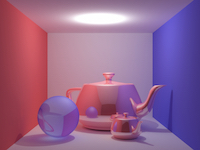
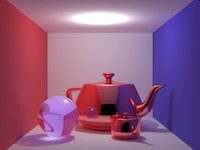
no message

diff --git a/courses/cs6620/prj12.html b/courses/cs6620/prj12.html
@@ -41,16 +41,16 @@ h3 {
 <body>
 <h1 style="margin-left:0px; margin-bottom:-75px; margin-top:25px"><p class="sansserif">CS6620 Project 12 - Path Tracing</p></h1>
 <div>
-<center><h3 style="margin-bottom:0px; margin-top:0px"><p class="sansserif">Cornell Box Scene showing caustics, 6,000 RPP (Hover on the image to see the same scene using Monte Carlo GI) (Time to RayCast: 1 hour 32 mins)</p></h3>
-  <a href="prj12.png">
-    <img src="prj12.png" width="800px" height="600px" vspace="5px"
+<center><h3 style="margin-bottom:0px; margin-top:0px"><p class="sansserif">Cornell Box Scene showing caustics, 13,500 RPP (Hover on the image to see the same scene using Monte Carlo GI) (Time to RayCast: 2 hours 22 mins)</p></h3>
+  <a href="image_pr12_physically_correct_scene.png">
+    <img src="image_pr12_physically_correct_scene.png" width="800px" height="600px" vspace="5px"
       onmouseover="this.src='Cornell Box Scene.png'"
-      onmouseout="this.src='prj12.png'">
+      onmouseout="this.src='image_pr12_physically_correct_scene.png'">
       </a>
 </center>
-<center><h3 style="margin-bottom:0px; margin-top:0px"><p class="sansserif">Cornell Box Scene showing caustics, 24,000 RPP (Time to RayCast: 9 hour 14 mins)</p></h3>
-  <a href="prj12_1.png">
-    <img src="prj12_1.png" width="800px" height="600px" vspace="5px">
+<center><h3 style="margin-bottom:0px; margin-top:0px"><p class="sansserif">Cornell Box Scene from Photon Mapping, 13,500 RPP (Time to RayCast: 2 hours 03 secs)</p></h3>
+  <a href="image_pr13_physically_correct_scene.png">
+    <img src="image_pr13_physically_correct_scene.png" width="800px" height="600px" vspace="5px">
       </a>
 </center>
 </div>
